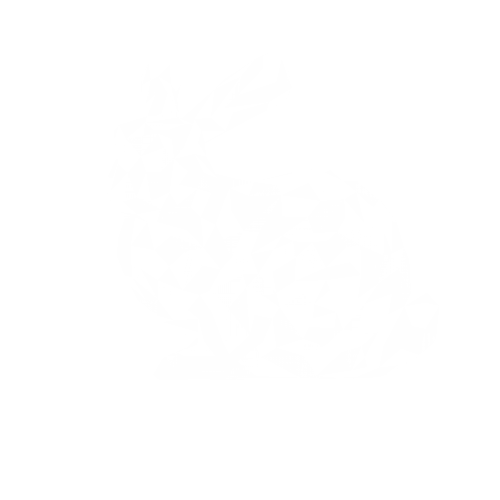
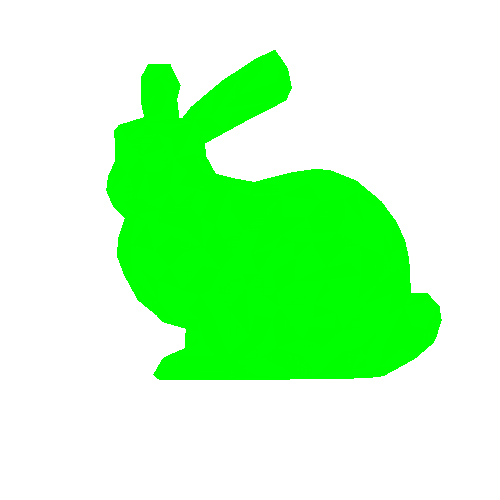
use green for silhouette

Changed region(s): [[0.21, 0.09, 0.9, 0.78]]

diff --git a/Assignment_5/src/main.cpp b/Assignment_5/src/main.cpp
@@ -169,7 +169,7 @@ void render_scene(
 		if (alpha == -1)
 			alpha = 1;
 		rasterize = [&]() {
-			uniform.color = Color(1, 1, 1, alpha);
+			uniform.color = Color(0, 1, 0, alpha);
 			rasterize_triangles(program, uniform, triangle_vertices, frameBuffer);
 		};
 	}
